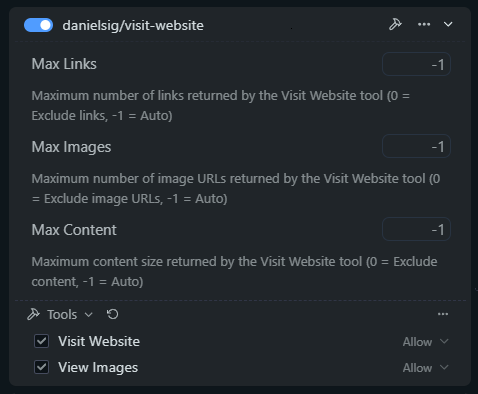
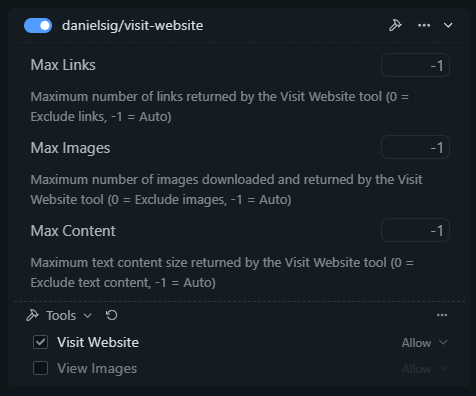
• Visit Website now downloads all images (for viewing), no need for the assistant to call View Images • Visit Website now lets the assistant provide "find in page" search terms to give certain links, images and content priority in results when they exceed their given limits • View Images can now tak

diff --git a/src/toolsProvider.ts b/src/toolsProvider.ts
@@ -7,111 +7,116 @@ import { configSchematics } from "./config";
 export async function toolsProvider(ctl:ToolsProviderController):Promise<Tool[]> {
 	const tools: Tool[] = [];
 
-	const visitWebsiteTool = tool({
-		name: "Visit Website",
-		description: "Visit a website and return its HTML contents.",
-		parameters: {
-			url: z.string().url().describe("The URL of the website to visit"),
-			maxLinks: z.number().int().min(0).max(200).optional().describe("Maximum number of links to extract from the page"),
-			maxImages: z.number().int().min(0).max(200).optional().describe("Maximum number of image URLs to extract from the page"),
-			contentLimit: z.number().int().min(0).max(10_000).optional().describe("Maximum content length to extract from the page"),
-		},
-		implementation: async ({ url, maxLinks, maxImages, contentLimit }, { status, warn, signal }) => {
-			status("Visiting website...");
+	const fetchHTML = async (url:string, signal:AbortSignal, warn:(msg:string) => void) => {
+		// Perform the fetch request with abort signal
+		const headers = spoofHeaders(url);
+		const response = await fetch(url, {
+			method: "GET",
+			signal,
+			headers,
+		});
+		if (!response.ok) {
+			warn(`Failed to fetch website: ${response.statusText}`);
+			throw new Error(`Failed to fetch website: ${response.statusText}`);
+		}
+		const html = await response.text();
+		const headStart = html.indexOf("<head>");
+		const headEnd = html.indexOf("</head>") + 7;
+		const head = html.substring(headStart, headEnd);
+		const bodyStart = html.match(/<body[^>]*>/)?.index || 0;
+		const bodyEnd = html.lastIndexOf("</body>") || html.length - 1;
+		const body = html.substring(bodyStart, bodyEnd);
+		return { html, head, body };
+	}
 
-			try {
-				maxLinks = undefinedIfAuto(ctl.getPluginConfig(configSchematics).get("maxLinks"), -1)
-					?? maxLinks
-					?? 40;
-				maxImages = undefinedIfAuto(ctl.getPluginConfig(configSchematics).get("maxImages"), -1)
-					?? maxImages
-					?? 10;
-				contentLimit = undefinedIfAuto(ctl.getPluginConfig(configSchematics).get("contentLimit"), -1)
-					?? contentLimit
-					?? 2000;
-				
-				// Perform the fetch request with abort signal
-				const headers = spoofHeaders(url);
-				const response = await fetch(url, {
-					method: "GET",
-					signal,
-					headers,
-				});
-				if (!response.ok) {
-					warn(`Failed to fetch website: ${response.statusText}`);
-					return `Error: Failed to fetch website: ${response.statusText}`;
-				}
-				const html = await response.text();
-				status("Website visited successfully.");
-				
-				const title = html.match(/<title>([^<]*)<\/title>/)?.[1] || ""
-				const bodyStart = html.match(/<body[^>]*>/)?.index || 0;
-				const bodyEnd = html.lastIndexOf("</body>") || html.length - 1;
-				const body = html.substring(bodyStart, bodyEnd);
-				const h1 = body.match(/<h1[^>]*>([^<]*)<\/h1>/)?.[1] || "";
-				const h2 = body.match(/<h2[^>]*>([^<]*)<\/h2>/)?.[1] || "";
-				const h3 = body.match(/<h3[^>]*>([^<]*)<\/h3>/)?.[1] || "";
-				const links = maxLinks && [...body.matchAll(/<a\s+[^>]*?href="([^"]+)"[^>]*>([^<]*)/g)]
-					.map((match, index) => [
-						match[2]?.replace(/\\[ntr]|\s/g, " ").trim(),
-						match[1]?.startsWith("/")
-							? new URL(match[1], url).href
-							: match[1],
-						index
-					] as [string, string, number])
-					.filter(([label, link]) => label?.length > 4 && link?.startsWith("http"))
-					.sort((a, b) => b[0].length - a[0].length) // prioritize longer labels
-					.slice(0, maxLinks) // Limit number of links
-					.sort((a, b) => Number(a[2]) - Number(b[2])) // Sort by original order in the body
-					.map(([label, link]) => [label, link] as [string, string]);
-				const images = maxImages && [...body.matchAll(/<img\s+[^>]*?src="([^"]+)/g)]
-					.map(match => match[1]?.startsWith("/")
-						? new URL(match[1], url).href
-						: match[1]
-					)
-					.filter(src => src && src.startsWith('http') && src.match(/\.(svg|png|gif|jpe?g)$/i)) // Filter valid image URLs
-					.slice(0, maxImages); // Limit number of images
-
-				// fetch the text content from the body using DOMParser
-				const content = contentLimit && body
-					.replace(/<script[^>]*>[\s\S]*?<\/script>/gi, '') // Remove script tags
-					.replace(/<style[^>]*>[\s\S]*?<\/style>/gi, '') // Remove style tags
-					.replace(/<[^>]+>/g, '') // Remove all HTML tags
-					.replace(/\s+/g, ' ') // Normalize whitespace
-					.trimStart()
-					.slice(0, contentLimit) // Limit text length
-					.trimEnd();
-					
+	const extractLinks = (body:string, url:string, maxLinks:number, searchTerms?:string[]) =>
+		[...body.matchAll(/<a\s+[^>]*?href="([^"]+)"[^>]*>((?:\n|.)*?)<\/a>/g)]
+			.map((match, index) => ({
+				index,
+				label: match[2]?.replace(/\\[ntr]|\s|<(?:[^>"]|"[^"]*")+>/g, " ").trim() || "",
+				link: match[1]?.startsWith("/")
+					? new URL(match[1], url).href
+					: match[1],
+			}))
+			.filter(({ link }) => link?.startsWith("http"))
+			.map((x, index, { length }) => {
+				// Prioritize links fitting the search terms
+				// Followed by short navigation links and content links with long labels
+				// Fewer digits = more likely a navigation link than a content link
+				const ratio = 1 / Math.min(1, /\d/g.exec(x.link)?.length || 1);
+				const score
+					= ratio * (100 - (x.label.length + x.link.length + (20 * index / length)))
+					+ (1 - ratio) * x.label.split(/\s+/).length;
 				return {
-					url, title, h1, h2, h3,
-					...(links ? { links } : {}),
-					...(images ? { images } : {}),
-					...(content ? { content } : {}),
+					...x,
+					score: searchTerms?.length
+						&& searchTerms.reduce((acc, term) => acc + (x.label.toLowerCase().includes(term.toLowerCase()) ? 1000 : 0), score)
+						|| score,
 				};
-			} catch (error: any) {
-				if (error instanceof DOMException && error.name === "AbortError") {
-					return "Website visit aborted by user.";
-				}
-				console.error(error);
-				warn(`Error during website visit: ${error.message}`);
-				return `Error: ${error.message}`;
-			}
-		},
-	});
+			})
+			.sort((a, b) => b.score - a.score) // Sort by score in descending order
+			.filter((x, i, arr) =>
+				// Filter out duplicates based on link, keeping the first occurrence
+				!arr.find((y, j) => j < i && y.link === x.link)
+			)
+			.slice(0, maxLinks) // Limit number of links
+			// .sort((a, b) => a.index - b.index) // Sort by original order in the body
+			.map(({ label, link }) => [label, link] as [string, string]);
+
+	const extractImages = (body:string, url:string, maxImages:number, searchTerms?:string[]) =>
+		[...body.matchAll(/<img(\s+[^>]*)/g)]
+			.filter(x => x[1])
+			.map(([, attributes], index) => {
+				const alt = attributes.match(/\salt="([^"]+)"/)?.[1] || "";
+				const src = attributes.match(/\ssrc="([^"]+)"/)?.[1];
+				return {
+					index,
+					alt,
+					src: src?.startsWith("/")
+						? new URL(src, url).href
+						: src,
+					score: searchTerms?.length
+						&& searchTerms.reduce((acc, term) => acc + (alt.toLowerCase().includes(term.toLowerCase()) ? 1000 : 0), alt.length)
+						|| alt.length,
+				};
+			})
+			.filter(({ src }) => src && src.startsWith('http') && src.match(/\.(svg|png|webp|gif|jpe?g)(\?.*)?$/i)) // Filter valid image URLs
+			.sort((a, b) => b.score - a.score) // Sort by score in descending order
+			.slice(0, maxImages) // Limit number of images
+			.sort((a, b) => a.index - b.index) // Sort by original order in the body
+			.map(({ src, alt }) => [alt, src] as [string, string]);
 
 	const viewImagesTool = tool({
 		name: "View Images",
-		description: "Downloads images from given URLs, saves them locally, returns their local paths that can be used as-is in markdown images.",
+		description: "Download images from a website or a list of image URLs to make them viewable.",
 		parameters: {
-			imageURLs: z.array(z.string().url()).describe("Array of image URLs to view"),
+			imageURLs: z.array(z.string().url()).optional().describe("List of image URLs to view that were not obtained via the Visit Website tool."),
+			websiteURL: z.string().url().optional().describe("The URL of the website, whose images to view."),
+			maxImages: z.number().int().min(1).max(200).optional().describe("Maximum number of images to view when websiteURL is provided."),
 		},
-		implementation: async ({ imageURLs }, { status, warn, signal }) => {
-			status("Downloading images...");
+		implementation: async ({ imageURLs, websiteURL, maxImages }, { status, warn, signal }) => {
 			try {
 
+				maxImages = undefinedIfAuto(ctl.getPluginConfig(configSchematics).get("maxImages"), -1)
+					?? maxImages
+					?? 10;
+
+				const imageURLsToDownload = imageURLs || [];
+
+				if(websiteURL) {
+					status("Fetching image URLs from website...");
+					const { body } = await fetchHTML(websiteURL, signal, warn);
+					const images = extractImages(body, websiteURL, maxImages).map(x => x[1]);
+					imageURLsToDownload.push(...images);
+				}
+
+				status("Downloading images...");
 				const workingDirectory = ctl.getWorkingDirectory();
 				const timestamp = Date.now();
-				const downloadPromises = imageURLs.map(async (url: string, i: number) => {
+				const downloadPromises = imageURLsToDownload.map(async (url:string, i:number) => {
+					if(url.startsWith(workingDirectory))
+						return url; // Skip if the URL is already a local file path
+					
 					const index = i + 1;
 					try {
 						const headers = spoofHeaders(url);
@@ -145,15 +150,20 @@ export async function toolsProvider(ctl:ToolsProviderController):Promise<Tool[]>
 						return null; // Skip this image on error
 					}
 				});
-				const downloadedImageURLs = (await Promise.all(downloadPromises)).map(x => x || 'Error downloading image');
-				if (downloadedImageURLs.length === 0) {
+				const downloadedImageMarkdowns = (await Promise.all(downloadPromises))
+					.map((x, i) => x
+						?
+						`![Image ${i + 1}](${x})`
+						: 'Error fetching image from URL: ' + imageURLsToDownload[i]
+					);
+				if (downloadedImageMarkdowns.length === 0) {
 					warn('Error fetching images');
-					return imageURLs;
+					return imageURLsToDownload;
 				}
 
-				status(`Downloaded ${downloadedImageURLs.length} images successfully.`);
+				status(`Downloaded ${downloadedImageMarkdowns.length} images successfully.`);
 
-				return downloadedImageURLs;
+				return downloadedImageMarkdowns;
 			} catch (error: any) {
 				if (error instanceof DOMException && error.name === "AbortError") {
 					return "Image download aborted by user.";
@@ -163,6 +173,89 @@ export async function toolsProvider(ctl:ToolsProviderController):Promise<Tool[]>
 				return `Error: ${error.message}`;
 			}
 		}
+	});
+
+	const visitWebsiteTool = tool({
+		name: "Visit Website",
+		description: "Visit a website and return its title, headings, links, images, and text content. Images are automatically downloaded and viewable.",
+		parameters: {
+			url: z.string().url().describe("The URL of the website to visit"),
+			findInPage: z.array(z.string()).optional().describe("Highly recommended! Optional search terms to prioritize which links, images, and content to return."),
+			maxLinks: z.number().int().min(0).max(200).optional().describe("Maximum number of links to extract from the page."),
+			maxImages: z.number().int().min(0).max(200).optional().describe("Maximum number of images to extract from the page."),
+			contentLimit: z.number().int().min(0).max(10_000).optional().describe("Maximum text content length to extract from the page."),
+		},
+		implementation: async ({ url, maxLinks, maxImages, contentLimit, findInPage: searchTerms }, context) => {
+			const { status, warn, signal } = context;
+			status("Visiting website...");
+
+			try {
+				maxLinks = undefinedIfAuto(ctl.getPluginConfig(configSchematics).get("maxLinks"), -1)
+					?? maxLinks
+					?? 40;
+				maxImages = undefinedIfAuto(ctl.getPluginConfig(configSchematics).get("maxImages"), -1)
+					?? maxImages
+					?? 10;
+				contentLimit = undefinedIfAuto(ctl.getPluginConfig(configSchematics).get("contentLimit"), -1)
+					?? contentLimit
+					?? 2000;
+
+				const { head, body } = await fetchHTML(url, signal, warn);
+				status("Website visited successfully.");
+				
+				const title = head.match(/<title>([^<]*)<\/title>/)?.[1] || ""
+				const h1 = body.match(/<h1[^>]*>([^<]*)<\/h1>/)?.[1] || "";
+				const h2 = body.match(/<h2[^>]*>([^<]*)<\/h2>/)?.[1] || "";
+				const h3 = body.match(/<h3[^>]*>([^<]*)<\/h3>/)?.[1] || "";
+				const links = maxLinks && extractLinks(body, url, maxLinks, searchTerms);
+				const imagesToFetch = maxImages ? extractImages(body, url, maxImages, searchTerms) : [];
+				const images = maxImages &&
+					(await viewImagesTool.implementation({ imageURLs: imagesToFetch.map(x => x[1]) }, context) as string[])
+					.map((markdown, index) => [imagesToFetch[index][0], markdown] as [string, string]);
+
+				// fetch the text content from the body using DOMParser
+				const allContent = contentLimit && body
+					.replace(/<script[^>]*>[\s\S]*?<\/script>/gi, '') // Remove script tags
+					.replace(/<style[^>]*>[\s\S]*?<\/style>/gi, '') // Remove style tags
+					.replace(/<[^>]+>/g, '') // Remove all HTML tags
+					.replace(/\s+/g, ' ') // Normalize whitespace
+					.trim() || '';
+				
+				let content = "";
+				if(searchTerms?.length && contentLimit < allContent.length) {
+					const padding = `.{0,${contentLimit / (searchTerms.length * 2)}}`;
+					const matches = searchTerms
+						.map(term => new RegExp(padding + term + padding, 'gi').exec(allContent))
+						.filter(match => !!match)
+						.sort((a, b) => a.index - b.index); // Sort by index in the content
+					let nextMinIndex = 0;
+					for(const match of matches) {
+						// Ensure we don't return duplicates by merging overlapping matches
+						content += match.index >= nextMinIndex
+							// The Match does not overlap with the previous one
+							? match[0]
+							// The match overlaps so we just extend the content to include it
+							: match[0].slice(nextMinIndex - match.index);
+						nextMinIndex = match.index + match[0].length;
+					}
+				}
+				else content = allContent.slice(0, contentLimit) // Limit text length
+					
+				return {
+					url, title, h1, h2, h3,
+					...(links ? { links } : {}),
+					...(images ? { images } : {}),
+					...(content ? { content } : {}),
+				};
+			} catch (error: any) {
+				if (error instanceof DOMException && error.name === "AbortError") {
+					return "Website visit aborted by user.";
+				}
+				console.error(error);
+				warn(`Error during website visit: ${error.message}`);
+				return `Error: ${error.message}`;
+			}
+		},
 	});
 
 

diff --git a/src/config.ts b/src/config.ts
@@ -7,7 +7,7 @@ export const configSchematics = createConfigSchematics()
 		{
 			displayName: "Max Links",
 			min: -1,
-			max: 200,
+			max: 500,
 			int: true,
 			subtitle: "Maximum number of links returned by the Visit Website tool (0 = Exclude links, -1 = Auto)",
 		},
@@ -19,9 +19,9 @@ export const configSchematics = createConfigSchematics()
 		{
 			displayName: "Max Images",
 			min: -1,
-			max: 200,
+			max: 500,
 			int: true,
-			subtitle: "Maximum number of image URLs returned by the Visit Website tool (0 = Exclude image URLs, -1 = Auto)",
+			subtitle: "Maximum number of images downloaded and returned by the Visit Website tool (0 = Exclude images, -1 = Auto)",
 		},
 		-1
 	)
@@ -31,9 +31,9 @@ export const configSchematics = createConfigSchematics()
 		{
 			displayName: "Max Content",
 			min: -1,
-			max: 10_000,
+			max: 50_000,
 			int: true,
-			subtitle: "Maximum content size returned by the Visit Website tool (0 = Exclude content, -1 = Auto)",
+			subtitle: "Maximum text content size returned by the Visit Website tool (0 = Exclude text content, -1 = Auto)",
 		},
 		-1
 	)
